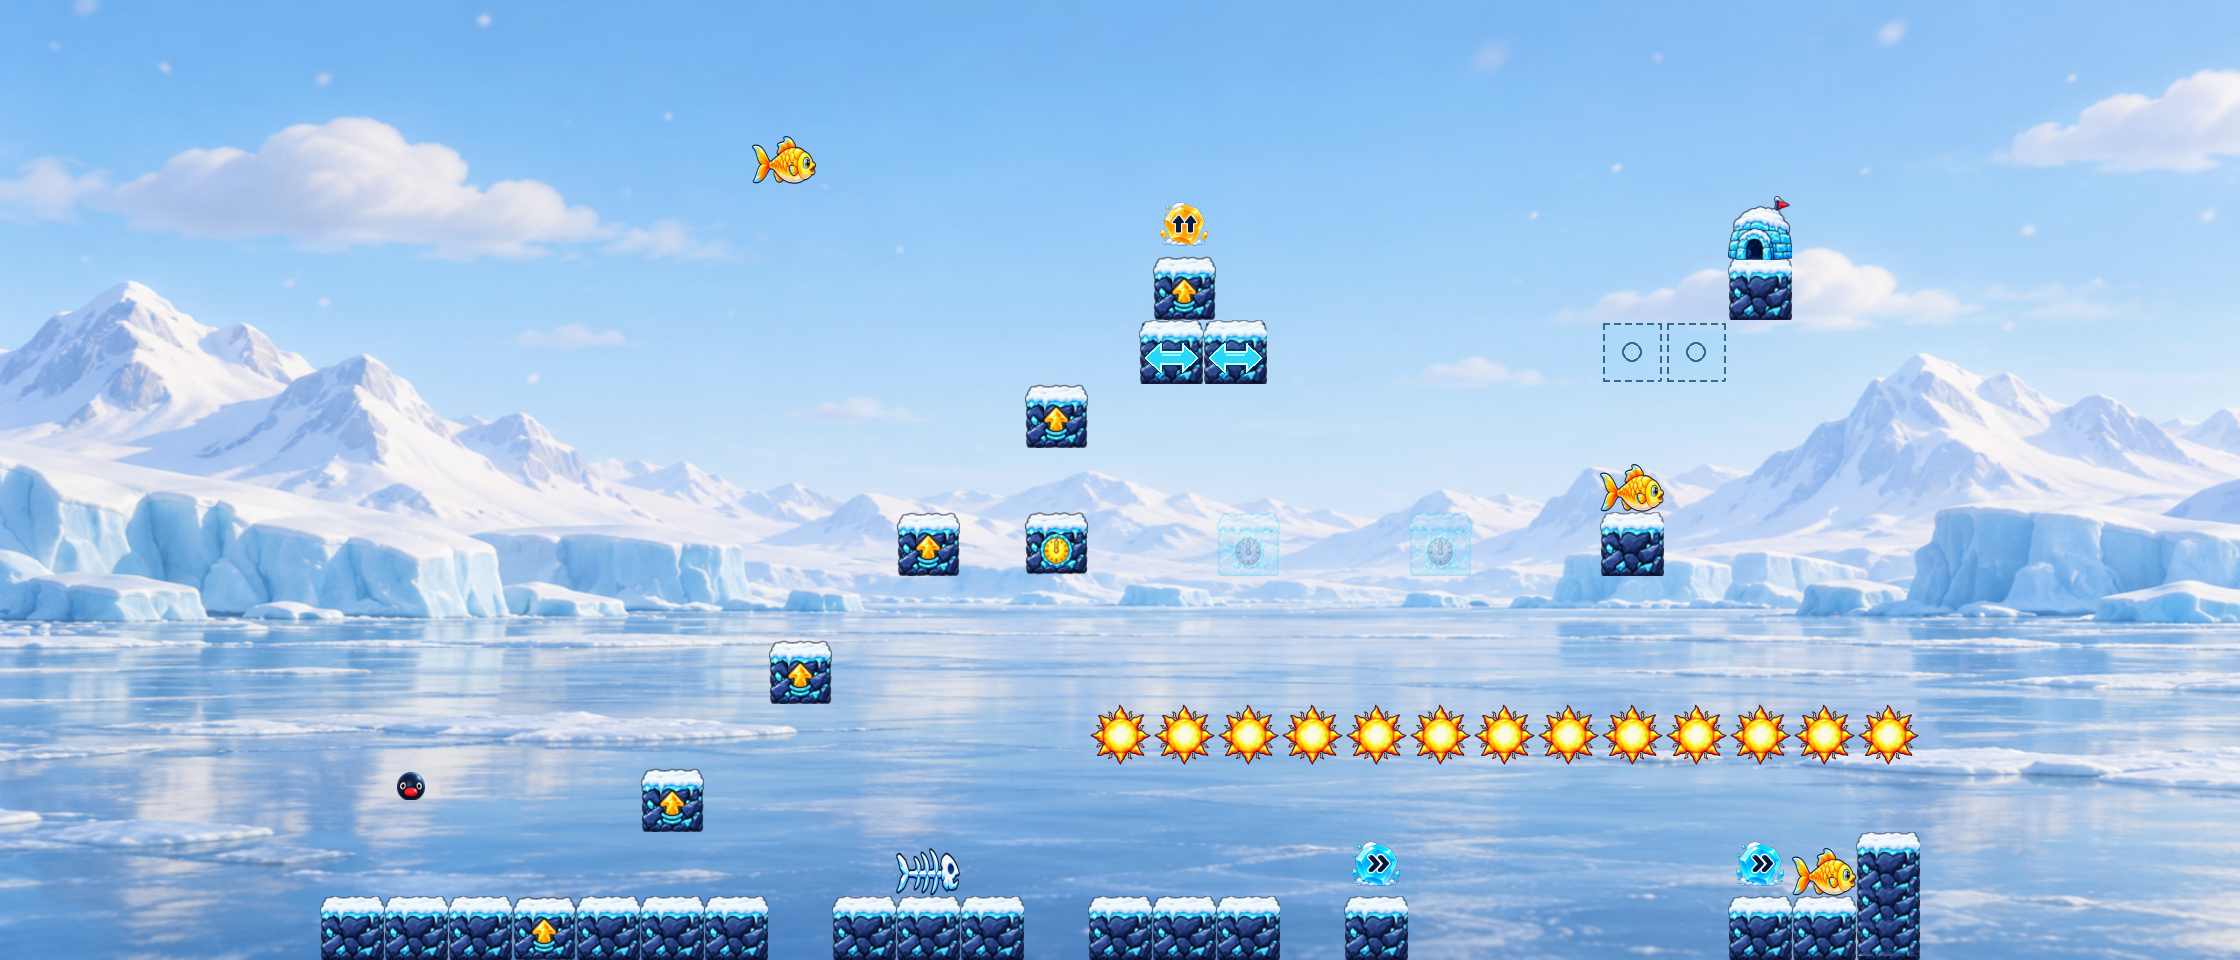
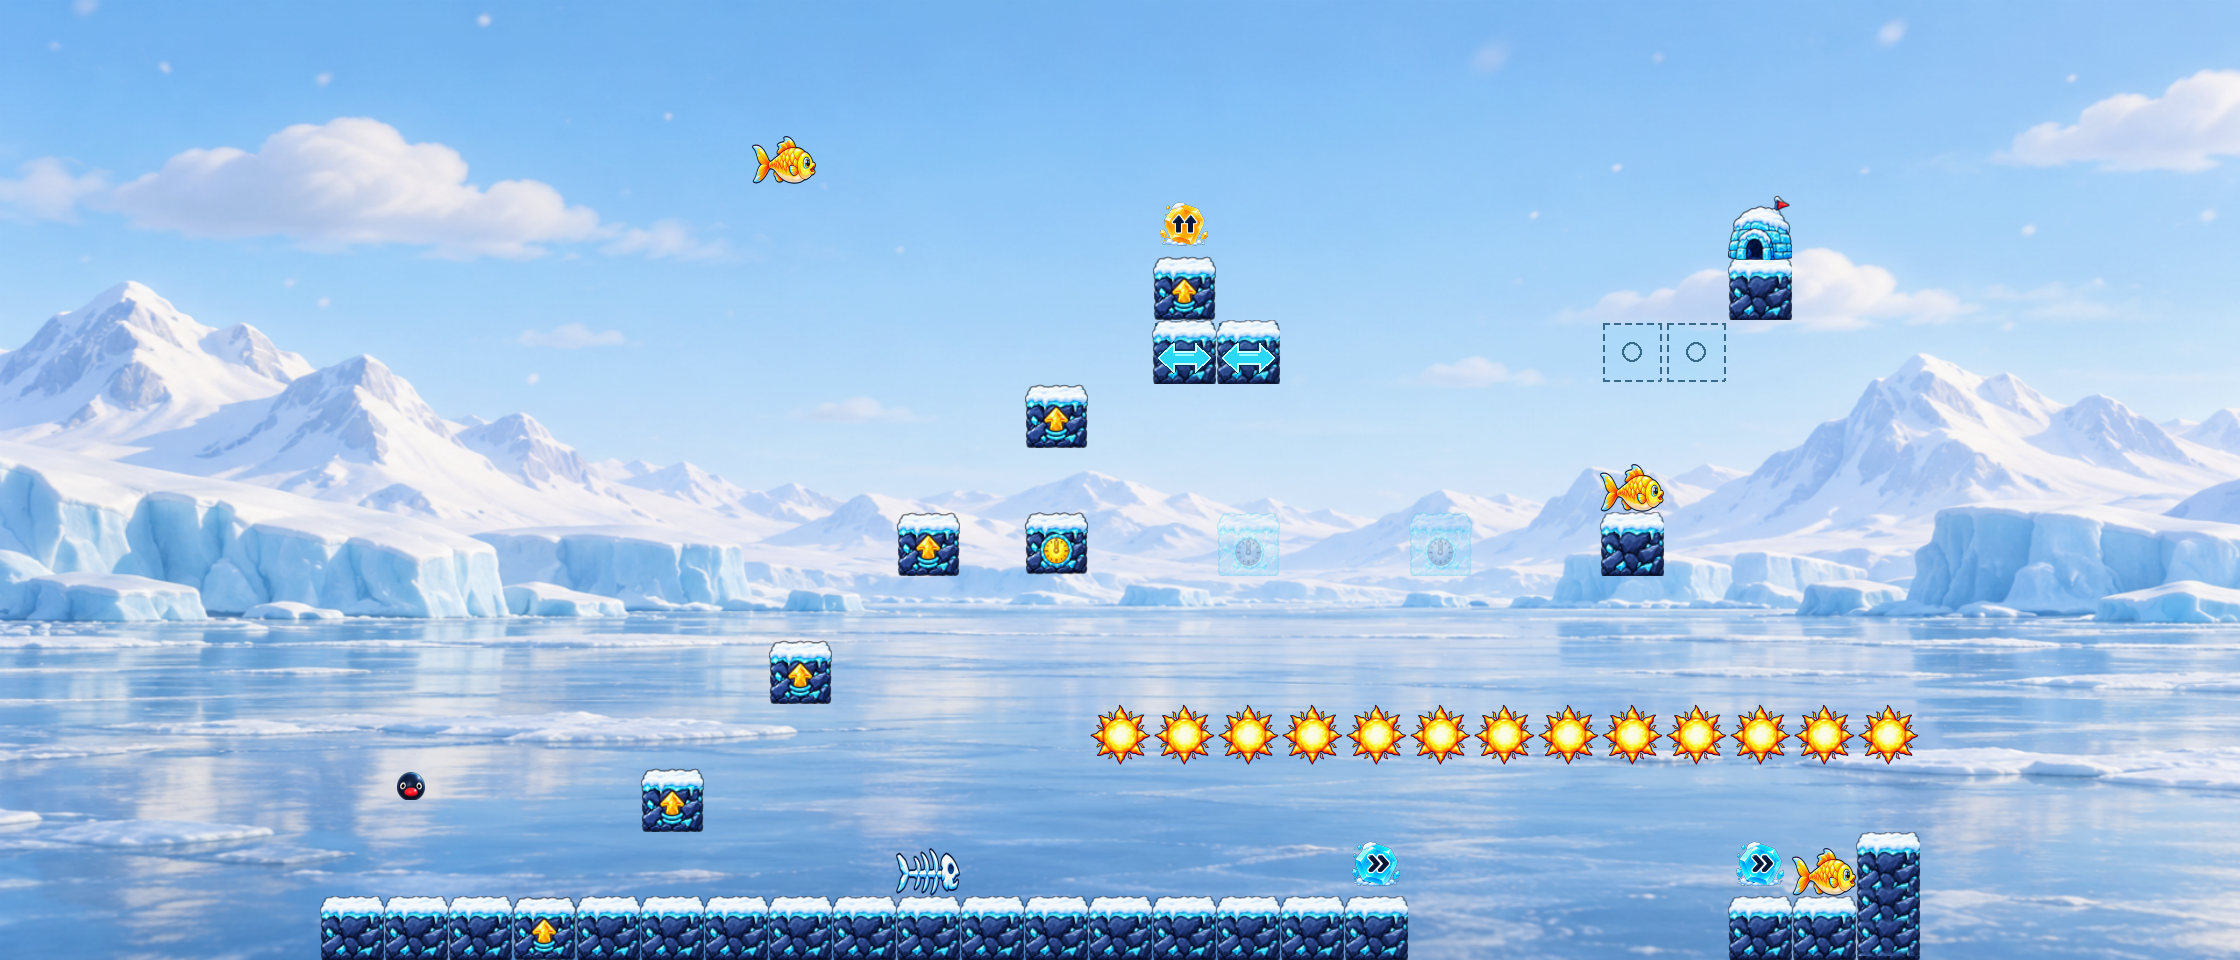
Align stage 4, 7 and 12 tiles and movement ranges

diff --git a/tests/test_campaign.py b/tests/test_campaign.py
@@ -137,23 +137,76 @@ class CampaignTests(unittest.TestCase):
         self.assertEqual(w.ball.power_up,'up')
         self.assertFalse(any(d.type_id==508 for d in w.level.specials))
 
-    def test_fourth_map_extends_only_left_turnaround_and_endpoint_guides(self):
+    def test_fourth_map_aligns_left_turnaround_without_moving_start_or_right_end(self):
         from pingu_ball.movement import movement_endpoints
         level=make_level(4)
         deck=[d for d in level.specials if d.type_id==501]
         self.assertEqual(len(deck),2)
         world=World(level,auto_reset=False)
         for offset,d in enumerate(deck):
-            self.assertAlmostEqual(d.x,414.4+64*offset)
-            self.assertAlmostEqual(d.options['travel'],545.6)
+            self.assertEqual(d.x,416+64*offset)
+            self.assertEqual(d.options['travel'],544)
             block=world.special.platforms[d.id]
             self.assertAlmostEqual(block.rect_at(0)[0],478.4+64*offset)
             turn=(d.options['travel']-d.options['phase'])/96
             self.assertAlmostEqual(block.rect_at(turn)[0],960+64*offset)
             left_turn=(2*d.options['travel']-d.options['phase'])/96
-            self.assertAlmostEqual(block.rect_at(left_turn)[0],414.4+64*offset)
+            self.assertAlmostEqual(block.rect_at(left_turn)[0],416+64*offset)
         self.assertEqual(movement_endpoints(level),tuple(sorted(
             (d.x+distance,d.y,64.,64.) for d in deck for distance in (0,d.options['travel']))))
+
+    def test_seventh_map_restores_floor_under_the_relocated_springs(self):
+        world=World(make_level(7),auto_reset=False)
+        for x in (448,704,960):
+            block=next(q for q in world.platforms if (q.x,q.y)==(x,896))
+            self.assertEqual(block.kind,'normal')
+            world.reset()
+            world.ball.x,world.ball.y,world.ball.vy=x+32,870,100
+            for _ in range(30):
+                world.step(0)
+                if world.last_landing==block.id: break
+            self.assertEqual(world.last_landing,block.id)
+            self.assertFalse(world.failed)
+
+    def test_seventh_map_ferry_turns_directly_below_upper_spring(self):
+        world=World(make_level(7),auto_reset=False)
+        ferry=[q for q in world.platforms if q.kind=='moving']
+        spring=next(d for d in world.level.specials if d.id=='spring-41')
+        self.assertEqual((spring.x,spring.y),(832,256))
+        self.assertEqual(len(ferry),2)
+        for offset,block in enumerate(ferry):
+            self.assertEqual(block.rect_at(0),(832+64*offset,320,64,64))
+            self.assertEqual(block.travel,448)
+            turn=block.travel/block.device.options['speed']
+            self.assertAlmostEqual(block.rect_at(turn)[0],1280+64*offset)
+            self.assertAlmostEqual(block.rect_at(2*turn)[0],spring.x+64*offset)
+        self.assertEqual(world.movement_endpoints,
+                         ((832,320,64,64),(896,320,64,64),
+                          (1280,320,64,64),(1344,320,64,64)))
+
+    def test_twelfth_map_central_columns_retain_reachable_half_tile_height(self):
+        level=make_level(12)
+        for x in (896,1024,1152,1280,1408):
+            for y in (608,672):
+                self.assertTrue(any((q.x,q.y)==(x,y) for q in level.platforms))
+            spring=next(d for d in level.specials if d.type_id==401 and d.x==x-64 and d.y==736)
+            world=World(replace(level,spawn=(spring.x+32,spring.y-20)),auto_reset=False)
+            self.land(world,x+32,608)
+            self.assertFalse(world.failed)
+
+    def test_realigned_seventh_and_twelfth_maps_clear_from_spawn_with_recorded_inputs(self):
+        from tools.verify_campaign_routes import route
+        for number in (7,12):
+            with self.subTest(stage=number):
+                replay=route(number)
+                self.assertTrue(replay.world.cleared)
+                self.assertEqual(replay.world.failures,0)
+                world=World(make_level(number),auto_reset=False)
+                for direction,use,power_direction in replay.inputs:
+                    world.step(direction,use_power=use,power_direction=power_direction)
+                    if world.failed or world.cleared: break
+                self.assertTrue(world.cleared,world.last_failure)
+                self.assertEqual(world.failures,0)
 
     def test_seventh_map_extra_dash_can_be_collected_beside_lower_right_fish(self):
         level=make_level(7)

diff --git a/pingu_ball/campaign.py b/pingu_ball/campaign.py
@@ -30,6 +30,7 @@ TILE_REMOVALS = {4: {('spike', 3, 13)}}
 TILE_ADDITIONS = {5: [{'kind': 'spring', 'c': 18, 'r': 7},
                       {'kind': 'spring', 'c': 16, 'r': 5},
                       {'kind': 'normal', 'c': 15, 'r': 7}],
+                  7: [{'kind': 'normal', 'c': c, 'r': 14} for c in (7,11,15)],
                   11: [{'kind': 'normal', 'c': 23, 'r': 8}]}
 POSITION_ADJUSTMENTS = {
     3: {('spring',23,10):(21,9), ('spring',20,12):(19,11),
@@ -42,7 +43,8 @@ POSITION_ADJUSTMENTS = {
         ('moving',12.15,10):(12.15,11), ('moving',13.15,10):(13.15,11)},
     7: {('spring',7,14):(5,12), ('spring',11,14):(7,10),
         ('spring',15,14):(9,8), ('spring',5,8):(11,6),
-        ('spring',2,5):(13,4)},
+        ('spring',2,5):(13,4),
+        ('moving',12.8,5):(13,5), ('moving',13.8,5):(14,5)},
     8: {('spring',4,9):(4,10), ('breakable',6,6):(6,8),
         ('breakable',7,6):(7,7)},
     9: {('breakable',13,9):(13,10), ('breakable',15,9):(15,10),
@@ -52,7 +54,11 @@ POSITION_ADJUSTMENTS = {
     # The added roof tile closes the direct drop from spawn to the igloo.
     11: {('spring',6,9):(6,10), ('spring',10,12):(10,11),
          ('normal',20,12):(19,11), ('normal',23,8):(21,9)},
-    12: {('spring',13,12.5):(13,11.5), ('spring',34,6.25):(34,5)},
+    12: {('spring',13,12.5):(13,11.5), ('spring',34,6.25):(34,5),
+         # Preserve the intentional half-tile height while aligning all five
+         # columns 128px above the adjacent springs.
+         **{('normal',c,r):(c,aligned_r) for c in (14,16,18,20,22)
+            for r,aligned_r in ((9.4,9.5),(10.4,10.5))}},
 }
 
 
@@ -79,15 +85,18 @@ def fit_jump_layout(source):
                        for c,r,kind in data['items']]
         # A second dash charge beside the lower-right fish.
         data['items'].append([22.5,13.5,'forward'])
+        # Align the joined deck's left turnaround with the upper spring.
+        rail=next(rail for rail in data['rails'] if rail[0][1]==rail[-1][1])
+        min(rail,key=lambda point:point[0])[0]=13.5
     if data['number']==4:
         # Keep the dash pickup above the repositioned top approach platform.
         data['items']=[[18.5,5.5,kind] if kind=='forward' else [c,r,kind]
                        for c,r,kind in data['items']]
-        # Extend only the left turnaround by one tile. Deriving phase from
-        # the original deck position keeps its starting position unchanged.
+        # Keep the extended left turnaround on the 32px half-tile grid.
+        # Deriving phase from the original deck preserves its start position.
         rail=next(rail for rail in data['rails'] if rail[0][1]==rail[-1][1])
         left=min(rail,key=lambda point:point[0])
-        left[0]-=1
+        left[0]=7
     if data['number']==3:
         # The two-tile deck must extend below the upper ledge's exit (x=768).
         # End its right edge at x=832, before the next spike column begins.

diff --git a/tools/verify_campaign_routes.py b/tools/verify_campaign_routes.py
@@ -179,6 +179,9 @@ def route(number):
         r.until(lambda:w.cleared,None,label='goal')
     elif number==12:
         r.land('normal-41',1440)
+        # The aligned central column changes the initial landing height.
+        # Wait on the safe ledge for the sun to clear the launcher's exit.
+        for _ in range(3): r.land('normal-41',1440)
         r.until(lambda:w.ball.launch,1632,label='right-launcher')
         r.until(lambda:w.ball.x>=2110,None,label='fly-right')
         r.tick(1)
